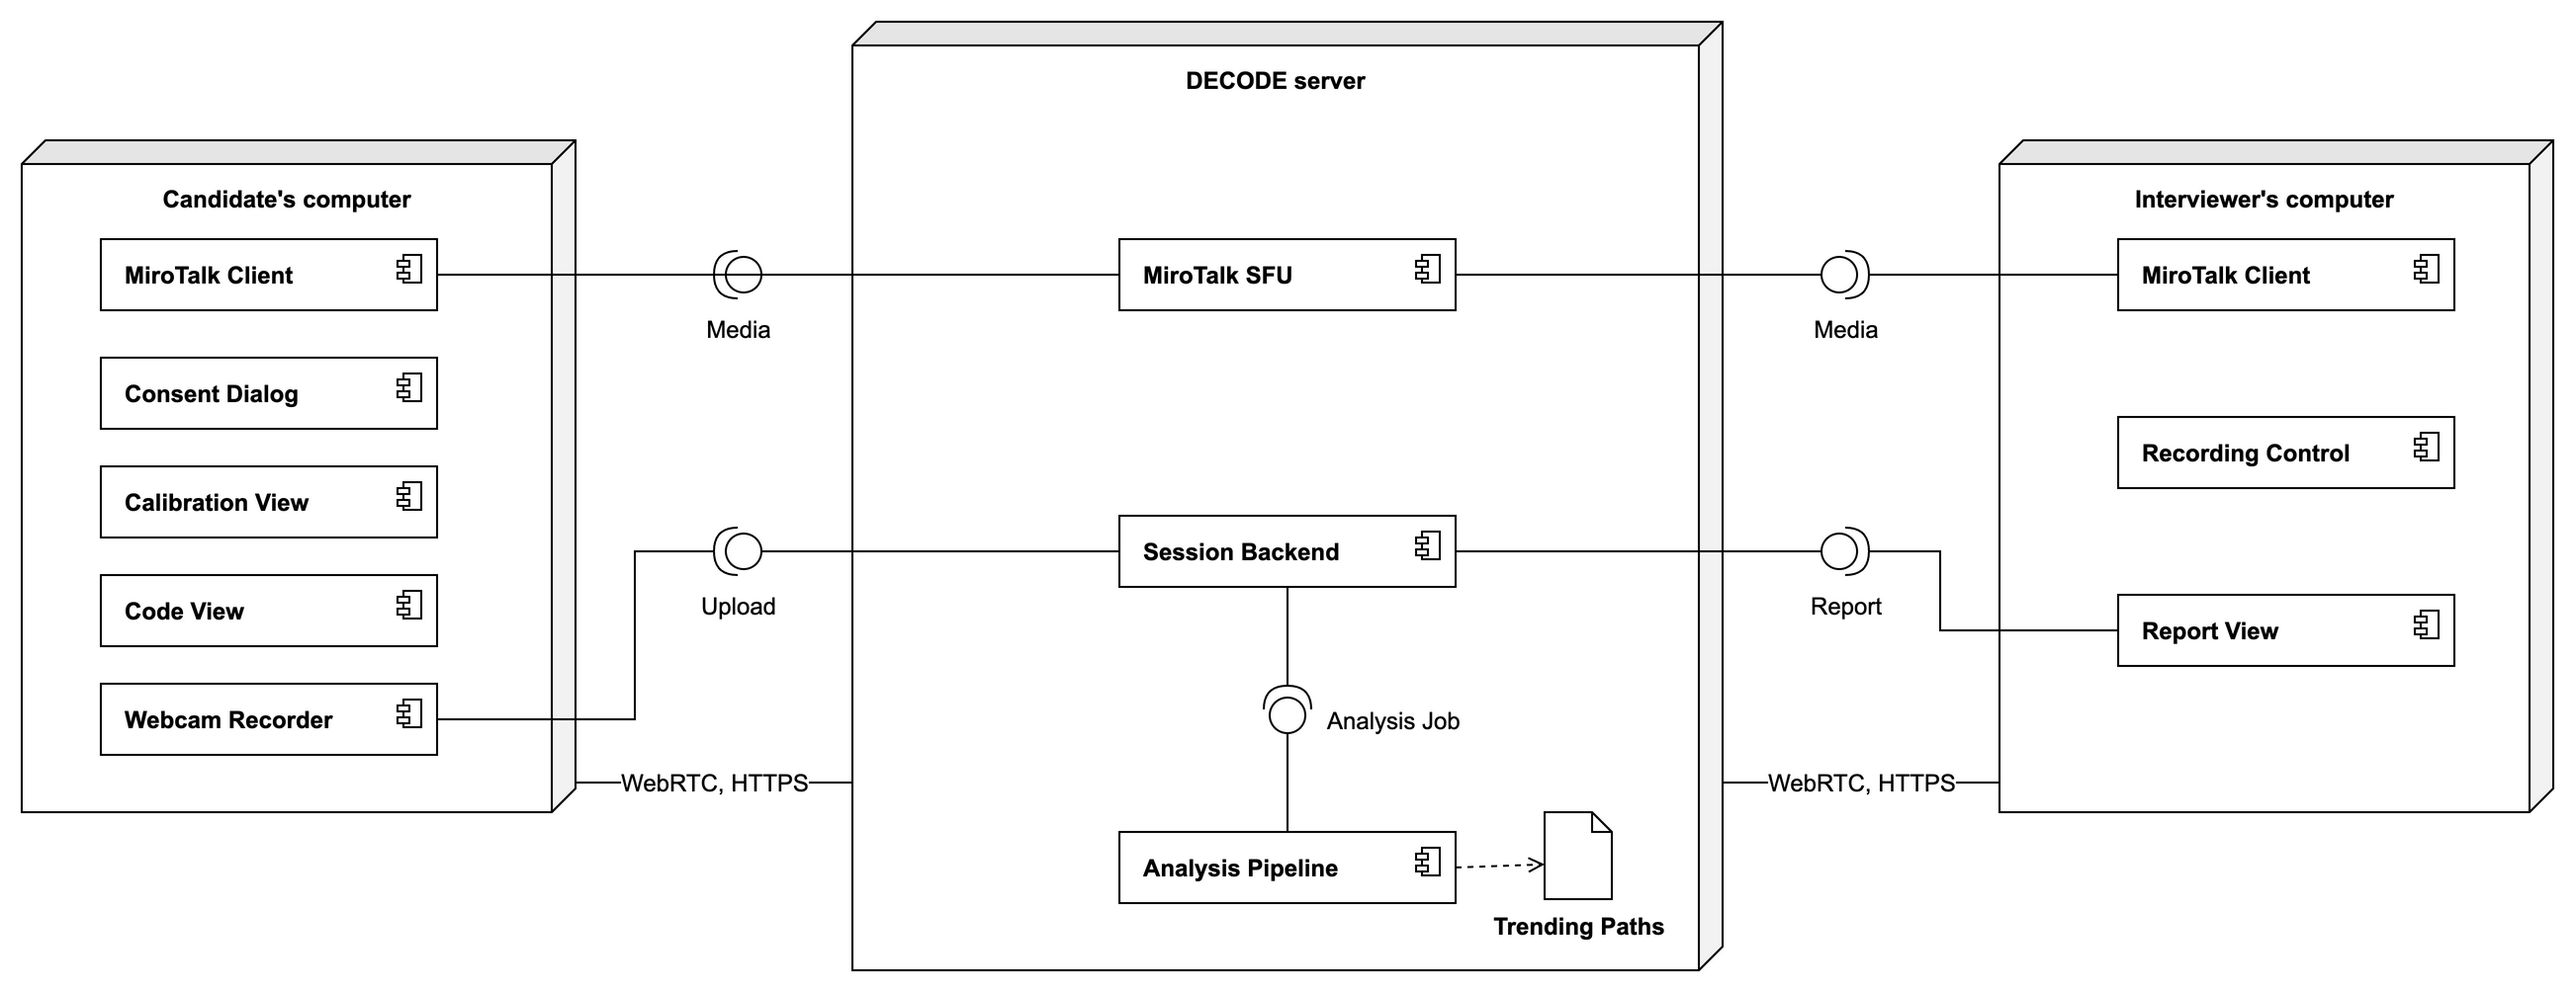
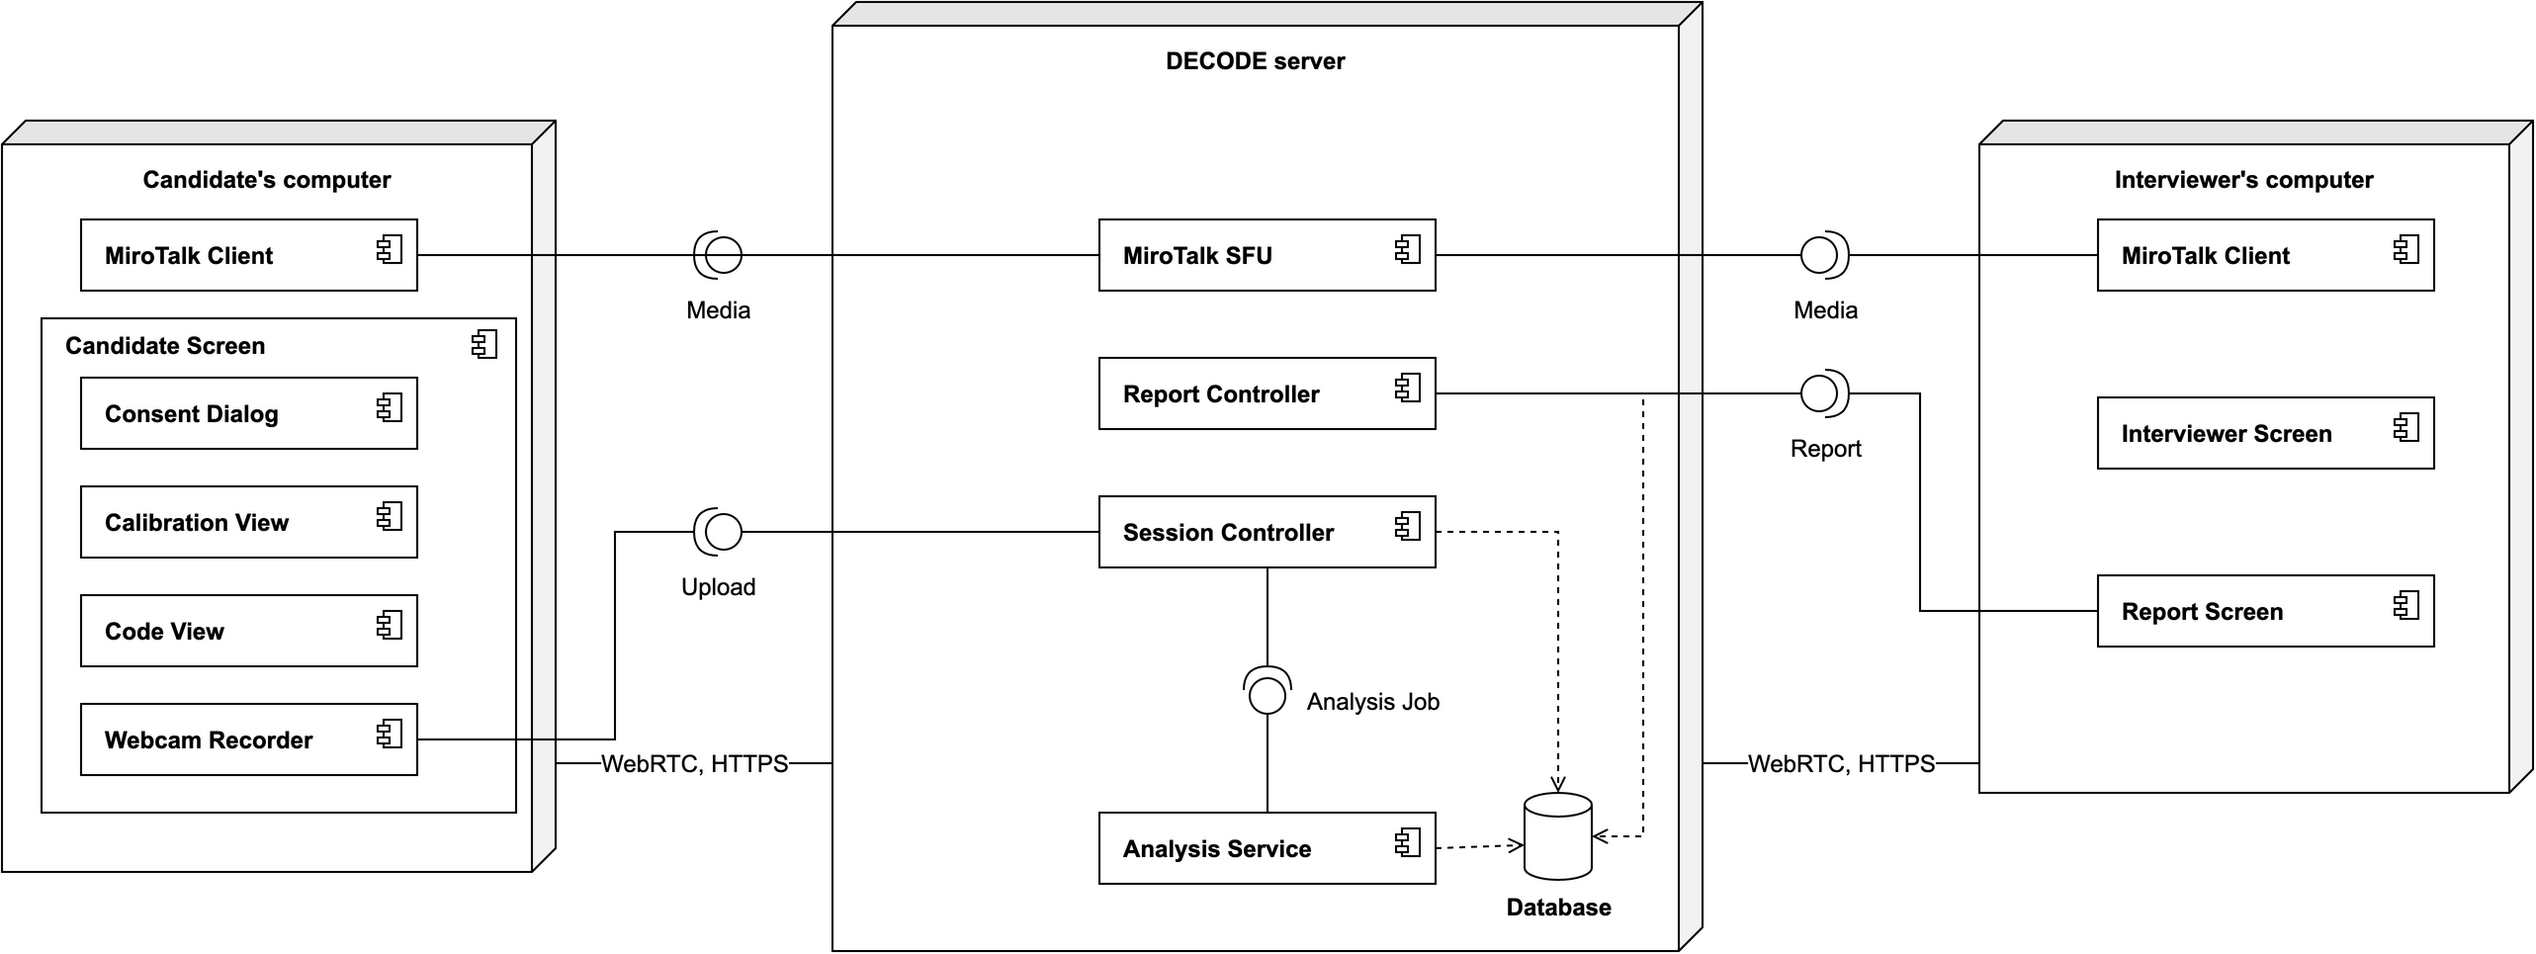
docs: align component names with sequence lifelines (DEC-72)

diff --git a/docs/sdd/sdd-3.2.2-sequence-taslak.md b/docs/sdd/sdd-3.2.2-sequence-taslak.md
@@ -10,7 +10,7 @@ Kararlar:
 - Actor adı "Candidate" (SRS ile aynı). Mehmet onayladı (DEC-54, 26 Kasım).
 
 Açık noktalar:
-- Lifeline adları ders kuralına göre rol adı (Screen, Controller, Service, Database; marks were lost without them). DEC-72 karşılığı: Interviewer Screen = Recording Control, Session Controller = Session Backend, Candidate Screen = Consent Dialog + Calibration View + Code View + Webcam Recorder, Analysis Service = Analysis Pipeline, Report Screen = Report View, Report Controller = Session Backend içinde. Mehmet'le eşitlenmesi konuşulmalı (DEC-76 class adları da).
+- Lifeline adları ders kuralına göre rol adı (Screen, Controller, Service, Database). DEC-72 component diyagramı bu adlara çekildi (27 Kasım, Mehmet). Candidate Screen = Consent Dialog + Calibration View + Code View + Webcam Recorder. DEC-76 class adları da bu sete uymalı.
 - Eşik ve N değeri henüz yok (DEC-39).
 
 ---
